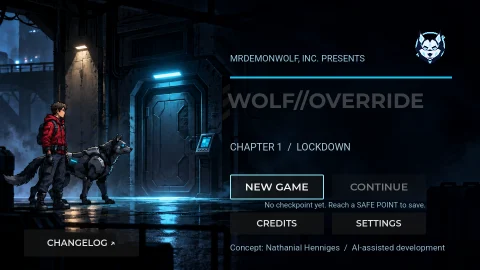
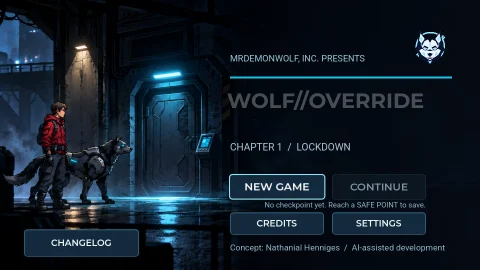
Recapture the site screenshots and complete the asset register
The title, corridor and Service Junction captures now come from this
build, with updated captions, title alt text and walkthrough wording
for where WOLF stands. The register gains entries for the shader,
font variation, theme and OFL files under assets, terms references on
the captures, and current wreck, tank and bleed descriptions.

Changed region(s): [[0.4688, 0.6222, 0.9062, 0.8889], [0.0312, 0.8296, 0.3125, 0.9778], [0.7188, 0.6815, 0.8438, 0.7111]]

diff --git a/apps/docs/app/page.tsx b/apps/docs/app/page.tsx
@@ -48,7 +48,7 @@ export default function HomePage() {
         </section>
         <section id="gameplay" className="marketing-play marketing-width" aria-labelledby="play-title">
           <div className="marketing-section-head"><p className="hud-label mb-5">The relationship is the game</p><h2 id="play-title" tabIndex={-1}>Find a way forward. Together.</h2><p>The current source build includes a maintenance corridor, Records Access and the Service Junction. This is the opening of a larger story.</p></div>
-          <figure className="marketing-game-frame"><a href={corridorCapture960.src} target="_blank" rel="noopener noreferrer"><img src={corridorCapture960.src} srcSet={`${corridorCapture480.src} 480w, ${corridorCapture960.src} 960w`} sizes="(min-width: 680px) 960px, 100vw" alt="Gameplay frame at the start of the maintenance corridor: the engineer and WOLF stand by the purge display while the objective card reads CHECK THE BREAKER and a tutorial box lists the move and read controls." width={corridorCapture960.width} height={corridorCapture960.height} loading="lazy" decoding="async" /><span className="sr-only">(full-size image, opens in a new tab)</span></a><figcaption><strong>Source build capture, October 8, 2026</strong><span>Provisional art and UI</span></figcaption></figure>
+          <figure className="marketing-game-frame"><a href={corridorCapture960.src} target="_blank" rel="noopener noreferrer"><img src={corridorCapture960.src} srcSet={`${corridorCapture480.src} 480w, ${corridorCapture960.src} 960w`} sizes="(min-width: 680px) 960px, 100vw" alt="Gameplay frame at the start of the maintenance corridor: the engineer and WOLF stand by the purge display while the objective card reads CHECK THE BREAKER and a tutorial box lists the move and read controls." width={corridorCapture960.width} height={corridorCapture960.height} loading="lazy" decoding="async" /><span className="sr-only">(full-size image, opens in a new tab)</span></a><figcaption><strong>Source build capture, October 10, 2026</strong><span>Provisional art and UI</span></figcaption></figure>
           <div className="marketing-features">
             <article><span className="hud-label" aria-hidden="true">01</span><h3>Play as the engineer</h3><p>You guide the engineer through THE DEN. WOLF moves and acts independently.</p></article>
             <article><span className="hud-label" aria-hidden="true">02</span><h3>Respect his boundaries</h3><p>WOLF may choose to help. If he refuses, take the manual route; essential progress stays in your hands.</p></article>
